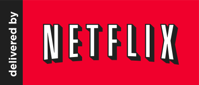
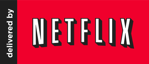
add credits for netflix in the apps

diff --git a/PocketFlix/iPhone/Classes/CreditsViewController.m b/PocketFlix/iPhone/Classes/CreditsViewController.m
@@ -32,6 +32,7 @@ typedef enum {
     WrittenBySection,
     MyOtherApplicationsSection,
     GraphicsBySection,
+    DVDDetailsSection,
     LocalizedBySection,
     LicenseSection,
     LastSection = LicenseSection
@@ -115,6 +116,8 @@ NSComparisonResult compareLanguageCodes(id code1, id code2, void* context) {
         return 3;
     } else if (section == GraphicsBySection) {
         return 1;
+    } else if (section == DVDDetailsSection) {
+        return 1;
     } else if (section == LocalizedBySection) {
         return localizers.count;
     } else if (section == LicenseSection) {
@@ -125,13 +128,30 @@ NSComparisonResult compareLanguageCodes(id code1, id code2, void* context) {
 }
 
 
+- (UIImage*) getImage:(NSIndexPath*) indexPath {
+    NSInteger section = indexPath.section;
+    
+    if (section == DVDDetailsSection) {
+       return [UIImage imageNamed:@"DeliveredByNetflix.png"];
+    }
+    
+    return nil;
+}
+
+
 - (CGFloat)         tableView:(UITableView*) tableView
       heightForRowAtIndexPath:(NSIndexPath*) indexPath {
+    UIImage* image = [self getImage:indexPath];
     CGFloat height = tableView.rowHeight;
-    if (indexPath.section == LocalizedBySection) {
+    if (image != nil) {
+        CGFloat imageHeight = image.size.height + 10;
+        if (imageHeight > height) {
+            height = imageHeight;
+        }
+    } else if (indexPath.section == LocalizedBySection) {
         return tableView.rowHeight - 14;
     }
-
+    
     return height;
 }
 
@@ -167,7 +187,18 @@ NSComparisonResult compareLanguageCodes(id code1, id code2, void* context) {
     UITableViewCell* cell = [[[UITableViewCell alloc] initWithFrame:[UIScreen mainScreen].applicationFrame] autorelease];
     cell.selectionStyle = UITableViewCellSelectionStyleNone;
 
-    if (section == WrittenBySection) {
+    UIImage* image = [self getImage:indexPath];
+    
+    if (image != nil) {
+        UIImageView* imageView = [[[UIImageView alloc] initWithImage:image] autorelease];
+        
+        NSInteger x = (self.tableView.contentSize.width - image.size.width) / 2 - 20;
+        NSInteger y = ([self tableView:tableView heightForRowAtIndexPath:indexPath] - image.size.height) / 2;
+        
+        imageView.frame = CGRectMake(x, y, image.size.width, image.size.height);
+        
+        [cell.contentView addSubview:imageView];
+    } else if (section == WrittenBySection) {
         if (row == 0) {
             cell.text = NSLocalizedString(@"Send Feedback", nil);
         } else if (row == 1) {
@@ -200,6 +231,8 @@ NSComparisonResult compareLanguageCodes(id code1, id code2, void* context) {
         return NSLocalizedString(@"Written by Cyrus Najmabadi", nil);
     } else if (section == MyOtherApplicationsSection) {
         return NSLocalizedString(@"My other applications", nil);
+    } else if (section == DVDDetailsSection) {
+        return NSLocalizedString(@"DVD/Blu-ray details:", nil);
     } else if (section == GraphicsBySection) {
         return NSLocalizedString(@"Graphics by David Steinberger", nil);
     } else if (section == LocalizedBySection) {

diff --git a/NowPlaying/iPhone/Classes/CreditsViewController.m b/NowPlaying/iPhone/Classes/CreditsViewController.m
@@ -36,7 +36,7 @@ typedef enum {
     TicketSalesBySection,
     MovieDetailsBySection,
     GeolocationServicesBySection,
-    DVDDetailsBySection,
+    DVDDetailsSection,
     LocalizedBySection,
     LicenseSection,
     LastSection = LicenseSection
@@ -128,7 +128,7 @@ NSComparisonResult compareLanguageCodes(id code1, id code2, void* context) {
         return 1;
     } else if (section == GeolocationServicesBySection) {
         return 3;
-    } else if (section == DVDDetailsBySection) {
+    } else if (section == DVDDetailsSection) {
         return 2;
     } else if (section == LocalizedBySection) {
         return localizers.count;
@@ -158,7 +158,7 @@ NSComparisonResult compareLanguageCodes(id code1, id code2, void* context) {
         if (row == 0) {
             return [UIImage imageNamed:@"YahooLogo.png"];
         }
-    } else if (section == DVDDetailsBySection) {
+    } else if (section == DVDDetailsSection) {
         if (row == 0) {
             return [UIImage imageNamed:@"VideoETALogo.png"];
         } else {
@@ -278,8 +278,8 @@ NSComparisonResult compareLanguageCodes(id code1, id code2, void* context) {
         return NSLocalizedString(@"Movie details provided by:", nil);
     } else if (section == GeolocationServicesBySection) {
         return NSLocalizedString(@"Geolocation services provided by:", nil);
-    } else if (section == DVDDetailsBySection) {
-        return NSLocalizedString(@"DVD/Blu-ray details provided by:", nil);
+    } else if (section == DVDDetailsSection) {
+        return NSLocalizedString(@"DVD/Blu-ray details:", nil);
     } else if (section == LocalizedBySection) {
         return NSLocalizedString(@"Localized by:", nil);
     }
@@ -303,7 +303,7 @@ NSComparisonResult compareLanguageCodes(id code1, id code2, void* context) {
 
 - (UITableViewCellAccessoryType) tableView:(UITableView*) tableView
           accessoryTypeForRowWithIndexPath:(NSIndexPath*) indexPath {
-    if (indexPath.section >= WrittenBySection && indexPath.section <= DVDDetailsBySection) {
+    if (indexPath.section >= WrittenBySection && indexPath.section <= DVDDetailsSection) {
         return UITableViewCellAccessoryDetailDisclosureButton;
     } else if (indexPath.section == LocalizedBySection) {
         return UITableViewCellAccessoryNone;
@@ -383,7 +383,7 @@ NSComparisonResult compareLanguageCodes(id code1, id code2, void* context) {
         } else {
             url = @"http://geocoder.ca";
         }
-    } else if (section == DVDDetailsBySection) {
+    } else if (section == DVDDetailsSection) {
         if (row == 0) {
             url = @"http://www.videoeta.com";
         } else {
